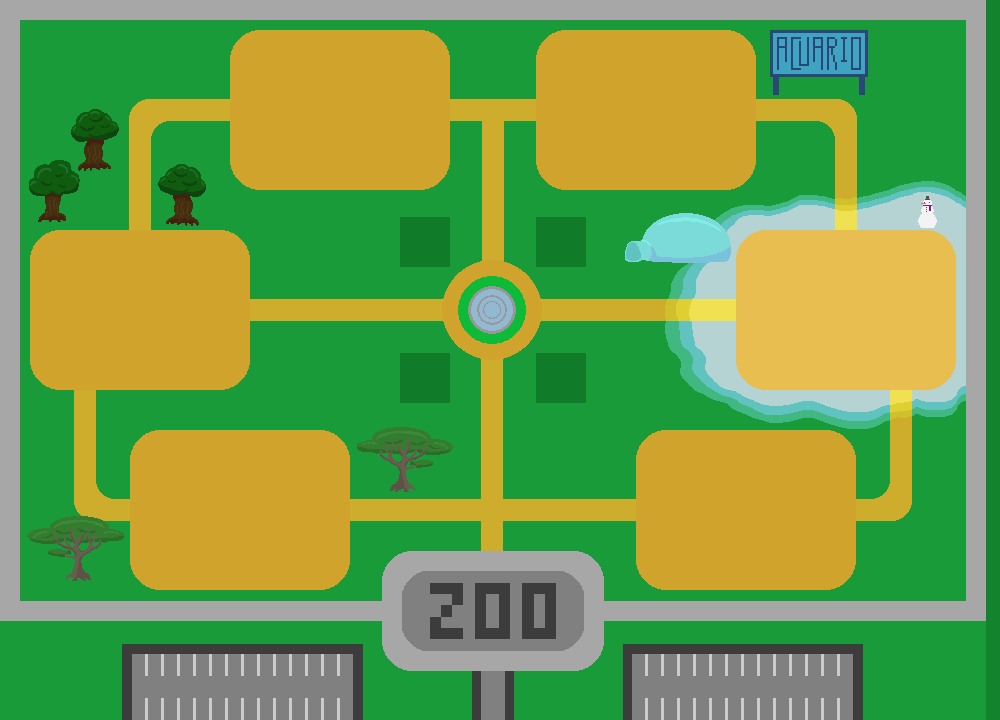
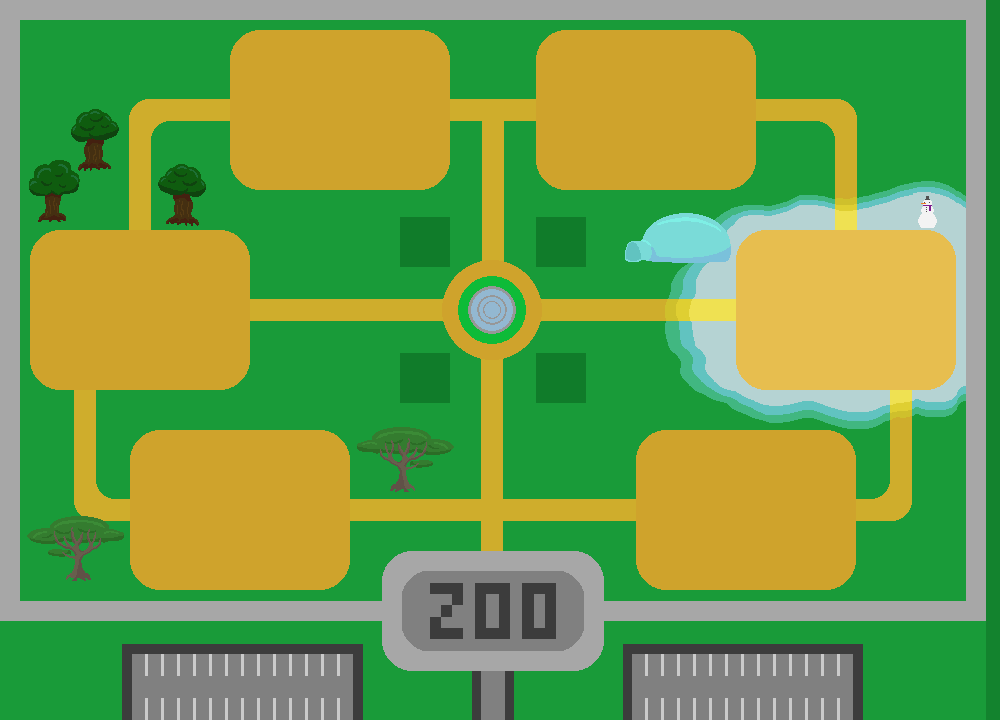
Adición de la función para comprar tiendas, a su vez la eliminación de la clase Tienda por su poca necesidad de tenerla

Changed region(s): [[0.744, 0.0306, 0.868, 0.1222]]

diff --git a/ProyectoFinal/src/main/java/Vistas/Paneles/PanelMenu.java b/ProyectoFinal/src/main/java/Vistas/Paneles/PanelMenu.java
@@ -24,22 +24,24 @@ public class PanelMenu extends JPanel {
         this.setBackground(Color.LIGHT_GRAY);
         listenerAnimal = new SelectAnimal();
         selectAnimal = new ArrayList<>();
-        cuadroDinero = new CuadroTexto[2];
+        cuadroDinero = new CuadroTexto[3];
         for(int i=0; i<6; i++)
             selectAnimal.add(new ArrayList<>());
 
         cuadroDinero[0] = new CuadroTexto(" Dinero: "+new Zoologico().getDinero()+ "$", "Arial", 1);
-        cuadroDinero[1] = new CuadroTexto("", "Arial", 1);
+        cuadroDinero[1] = new CuadroTexto(" Ganancias: 0", "Arial", 1);
+        cuadroDinero[2] = new CuadroTexto("", "Arial", 1);
         addComp(cuadroDinero[0],20,20,240,20);
-        addComp(new CuadroTexto(" v Seleccione Animal:", "Arial", 1), 20,60,240,20);
+        addComp(cuadroDinero[1],20,45,240,20);
+        addComp(new CuadroTexto(" v Seleccione Animal:", "Arial", 1), 20,90,240,20);
         addAnimal = new PopupSelect(" Seleccione un Habitat", Color.WHITE, Color.BLACK, "Arial", 0);
-        addComp(addAnimal,20,85,240,20);
-        addComp(new CuadroTexto(" v Inserte Nombre:","Arial", 1), 20,130,240,20);
+        addComp(addAnimal,20,115,240,20);
+        addComp(new CuadroTexto(" v Inserte Nombre:","Arial", 1), 20,160,240,20);
         insertText = new ZonaTexto(" Seleccione un Habitat","Arial", 0);
-        addComp(insertText,20,155,240,20);
-        addComp(cuadroDinero[1],  20,200,240,20);
+        addComp(insertText,20,185,240,20);
+        addComp(cuadroDinero[2],  20,230,240,20);
         comprarAnimal = new Boton(Color.BLACK, true, "imgAdoptar.png");
-        addComp(comprarAnimal,20,225,240,50);
+        addComp(comprarAnimal,20,255,240,50);
         comprarAnimal.addActionListener(new MenuOptions());
         addAnimal.setUse(false);
         comprarAnimal.setEnabled(false);
@@ -51,10 +53,11 @@ public class PanelMenu extends JPanel {
         this.add(comp);
     }
     public void updateDinero(int dinero) {
-        cuadroDinero[0].setText(" Dinero: "+dinero+" $ + "+PanelLinker.getPanelPrincipal().zoologico.getGanancia() + " $ in 5 sec");
+        cuadroDinero[0].setText(" Dinero: "+dinero+" $");
+        cuadroDinero[1].setText(" Ganancias: +"+PanelLinker.getPanelPrincipal().zoologico.getGanancia() + " $ /5 seg");
     }
 
-    public void changeHabitat(Habitat habitat) {
+    public void enterHabitat(Habitat habitat) {
         this.habitat = habitat;
         tipoAnimal = null;
         addAnimal.setUse(true);
@@ -70,7 +73,7 @@ public class PanelMenu extends JPanel {
         addAnimal.setUse(false);
         insertText.setText(" Seleccione un Habitat");
         insertText.setEnabled(false);
-        cuadroDinero[1].setText("");
+        cuadroDinero[2].setText("");
         comprarAnimal.setEnabled(false);
     }
     public void updatePopup() {
@@ -91,7 +94,7 @@ public class PanelMenu extends JPanel {
                     tipoAnimal = habitat.getUnlocked().get(i);
                     addAnimal.setText(" "+tipoAnimal.getNombre());
                     insertText.setText(tipoAnimal.getNombre());
-                    cuadroDinero[1].setText(" Precio: "+tipoAnimal.getPrecio()+" $");
+                    cuadroDinero[2].setText(" Precio: "+tipoAnimal.getPrecio()+" $");
                     comprarAnimal.setEnabled(true);
                 }
             }

diff --git a/ProyectoFinal/src/main/java/Vistas/Paneles/PanelZoologico.java b/ProyectoFinal/src/main/java/Vistas/Paneles/PanelZoologico.java
@@ -51,7 +51,7 @@ public class PanelZoologico extends JPanel {
 
         int[] yTPos = new int[]{217,353,353,217};
         for(int i=0; i<4; i++) {
-            bTiendas[i] = new Boton(Color.BLACK, true, "imgTienda" + i + ".png");
+            bTiendas[i] = new Boton(Color.BLACK, true, "imgTiendaLock" + i + ".png");
             bTiendas[i].addActionListener(listenerTienda);
             addComp(bTiendas[i],400+136*(i%2),yTPos[i],50,50);
         }
@@ -70,7 +70,7 @@ public class PanelZoologico extends JPanel {
         for(int j=0; j<4; j++)
             bTiendas[j].setVisible(!openPanelHabitat.getVisible());
         if(openPanelHabitat.getVisible()) {
-            PanelLinker.getPanelPrincipal().getMenu().changeHabitat(openPanelHabitat.getHabitat());
+            PanelLinker.getPanelPrincipal().getMenu().enterHabitat(openPanelHabitat.getHabitat());
             ImgBackground = ImageLoader.getInstancia().getImagenFondoZoo(openPanelHabitat.getHabitat().getTipo().getValue());
             this.add(openPanelHabitat);
         } else {
@@ -104,6 +104,14 @@ public class PanelZoologico extends JPanel {
     private class InteraccionTienda implements ActionListener {
         @Override
         public void actionPerformed(ActionEvent event) {
+            for(int i=0; i<4; i++) {
+                if(event.getSource() == bTiendas[i]) {
+                    zoologico.comprarTienda(i);
+                    PanelLinker.getPanelPrincipal().panelMenu.updateDinero(zoologico.getDinero());
+                }
+                if(zoologico.getTienda(i))
+                    bTiendas[i].changeImage("imgTienda"+i+".png");
+            }
         }
     }
 

diff --git a/ProyectoFinal/src/main/java/Modelos/Enumeration/TipoAnimal.java b/ProyectoFinal/src/main/java/Modelos/Enumeration/TipoAnimal.java
@@ -22,12 +22,12 @@ public enum TipoAnimal {
     Pantera(100, TipoHabitat.Selva, TipoComida.CarneRoja,"Pantera"),
     Serpiente(100, TipoHabitat.Selva, TipoComida.Roedor,"Serpiente"),
 
-    Coipo(100, TipoHabitat.Oceano, TipoComida.Arbustos,"Coipo"),
-    Delfin(100, TipoHabitat.Oceano, TipoComida.Pescado,"Delfín"),
-    LoboMarino(100, TipoHabitat.Oceano, TipoComida.Pescado,"Lobo marino"),
-    Orca(100, TipoHabitat.Oceano, TipoComida.CarneRoja,"Orca"),
-    Tiburon(100, TipoHabitat.Oceano, TipoComida.Pescado,"Tiburón"),
-    Tortuga(100, TipoHabitat.Oceano, TipoComida.Vegetacion,"Tortuga"),
+    Coipo(100, TipoHabitat.Acuario, TipoComida.Arbustos,"Coipo"),
+    Delfin(100, TipoHabitat.Acuario, TipoComida.Pescado,"Delfín"),
+    LoboMarino(100, TipoHabitat.Acuario, TipoComida.Pescado,"Lobo marino"),
+    Orca(100, TipoHabitat.Acuario, TipoComida.CarneRoja,"Orca"),
+    Tiburon(100, TipoHabitat.Acuario, TipoComida.Pescado,"Tiburón"),
+    Tortuga(100, TipoHabitat.Acuario, TipoComida.Vegetacion,"Tortuga"),
 
     Avestruz(100, TipoHabitat.Desierto, TipoComida.Frutos,"Avestruz"),
     Camello(100, TipoHabitat.Desierto, TipoComida.Vegetacion,"Camello"),

diff --git a/ProyectoFinal/src/main/java/Modelos/Enumeration/ListaAnimales.java b/ProyectoFinal/src/main/java/Modelos/Enumeration/ListaAnimales.java
@@ -4,7 +4,7 @@ public enum ListaAnimales {
     Bosque(new TipoAnimal[]{TipoAnimal.Carpintero,TipoAnimal.Huemul,TipoAnimal.Oso,TipoAnimal.Pudu,TipoAnimal.Puma,TipoAnimal.Zorro}),
     Sabana(new TipoAnimal[]{TipoAnimal.Cebra,TipoAnimal.Elefante,TipoAnimal.Hiena,TipoAnimal.Hipopotamo,TipoAnimal.Jirafa,TipoAnimal.Leon}),
     Selva(new TipoAnimal[]{TipoAnimal.Cocodrilo,TipoAnimal.Loro,TipoAnimal.Mono,TipoAnimal.OsoHormiguero,TipoAnimal.Pantera,TipoAnimal.Serpiente}),
-    Acuatico(new TipoAnimal[]{TipoAnimal.Coipo,TipoAnimal.Delfin,TipoAnimal.LoboMarino,TipoAnimal.Orca,TipoAnimal.Tiburon,TipoAnimal.Tortuga}),
+    Acuario(new TipoAnimal[]{TipoAnimal.Coipo,TipoAnimal.Delfin,TipoAnimal.LoboMarino,TipoAnimal.Orca,TipoAnimal.Tiburon,TipoAnimal.Tortuga}),
     Desierto(new TipoAnimal[]{TipoAnimal.Avestruz,TipoAnimal.Camello,TipoAnimal.Canguro,TipoAnimal.Coyote,TipoAnimal.Lagarto,TipoAnimal.Suricata}),
     Artico(new TipoAnimal[]{TipoAnimal.Alce,TipoAnimal.BuhoNival,TipoAnimal.Morsa,TipoAnimal.OsoPolar,TipoAnimal.Pinguino,TipoAnimal.ZorroArtico});
     private TipoAnimal[] animales;

diff --git a/ProyectoFinal/src/main/java/Modelos/Acuario/LoboMarino.java b/ProyectoFinal/src/main/java/Modelos/Acuario/LoboMarino.java
@@ -1,4 +1,4 @@
-package Modelos.Oceano;
+package Modelos.Acuario;
 
 import Modelos.Utils.Animal;
 import Modelos.Enumeration.TipoAnimal;
@@ -6,12 +6,12 @@ import Vistas.Utils.ImageLoader;
 import java.awt.*;
 import java.util.Random;
 
-public class Delfin extends Animal {
+public class LoboMarino extends Animal {
     private int moveTime;
     private int moveSpeed = 1;
 
-    public Delfin(String nombre) {
-        super(nombre, TipoAnimal.Delfin);
+    public LoboMarino(String nombre) {
+        super(nombre, TipoAnimal.LoboMarino);
         setImage(ImageLoader.getInstancia().getImagenAnimal(getNumImg()));
         setFlippedImage(ImageLoader.getInstancia().getImagenAnimalFlipped(getNumImg()));
         Random random = new Random();
@@ -20,14 +20,13 @@ public class Delfin extends Animal {
 
     @Override
     public int getNumImg() {
-        return 19;
+        return 20;
     }
 
     public void moveInPath(){
         if(moveTime>200||moveTime<0){
             moveSpeed=-moveSpeed;
             swapFlipped();
-
         }
 
         moveTime+=moveSpeed;

diff --git a/ProyectoFinal/src/main/java/Modelos/Acuario/Delfin.java b/ProyectoFinal/src/main/java/Modelos/Acuario/Delfin.java
@@ -1,4 +1,4 @@
-package Modelos.Oceano;
+package Modelos.Acuario;
 
 import Modelos.Utils.Animal;
 import Modelos.Enumeration.TipoAnimal;
@@ -6,12 +6,12 @@ import Vistas.Utils.ImageLoader;
 import java.awt.*;
 import java.util.Random;
 
-public class Tiburon extends Animal {
+public class Delfin extends Animal {
     private int moveTime;
     private int moveSpeed = 1;
 
-    public Tiburon(String nombre) {
-        super(nombre, TipoAnimal.Tiburon);
+    public Delfin(String nombre) {
+        super(nombre, TipoAnimal.Delfin);
         setImage(ImageLoader.getInstancia().getImagenAnimal(getNumImg()));
         setFlippedImage(ImageLoader.getInstancia().getImagenAnimalFlipped(getNumImg()));
         Random random = new Random();
@@ -20,13 +20,14 @@ public class Tiburon extends Animal {
 
     @Override
     public int getNumImg() {
-        return 22;
+        return 19;
     }
 
     public void moveInPath(){
         if(moveTime>200||moveTime<0){
             moveSpeed=-moveSpeed;
             swapFlipped();
+
         }
 
         moveTime+=moveSpeed;

diff --git a/ProyectoFinal/src/main/java/Modelos/Utils/Zoologico.java b/ProyectoFinal/src/main/java/Modelos/Utils/Zoologico.java
@@ -7,15 +7,25 @@ public class Zoologico {
     private int dinero;
     private int ganancia;
     private int penalizacion;
+    private boolean[] tiendas;
 
     public Zoologico() {
         listaHabitat = new Habitat[6];
+        tiendas = new boolean[4];
         dinero = 10000;
         ganancia = 0;
         penalizacion = 0;
         for(int i=0; i<6; i++) {
             listaHabitat[i] = new Habitat(TipoHabitat.values()[i], ListaAnimales.values()[i]);
         }
+        for(int i=0; i<4; i++) {
+            tiendas[i] = false;
+        }
+    }
+
+    public void comprarTienda(int index) {
+        if(transaccion(3000,30))
+            tiendas[index] = true;
     }
 
     public void comprarHabitat(int index) {
@@ -58,6 +68,7 @@ public class Zoologico {
     }
     public int getDinero() { return dinero; }
     public Habitat getHabitat(int index) { return listaHabitat[index]; }
+    public boolean getTienda(int index) { return tiendas[index]; }
 
 
 }

diff --git a/ProyectoFinal/src/main/java/Modelos/Acuario/Tiburon.java b/ProyectoFinal/src/main/java/Modelos/Acuario/Tiburon.java
@@ -1,4 +1,4 @@
-package Modelos.Oceano;
+package Modelos.Acuario;
 
 import Modelos.Utils.Animal;
 import Modelos.Enumeration.TipoAnimal;
@@ -6,12 +6,12 @@ import Vistas.Utils.ImageLoader;
 import java.awt.*;
 import java.util.Random;
 
-public class LoboMarino extends Animal {
+public class Tiburon extends Animal {
     private int moveTime;
     private int moveSpeed = 1;
 
-    public LoboMarino(String nombre) {
-        super(nombre, TipoAnimal.LoboMarino);
+    public Tiburon(String nombre) {
+        super(nombre, TipoAnimal.Tiburon);
         setImage(ImageLoader.getInstancia().getImagenAnimal(getNumImg()));
         setFlippedImage(ImageLoader.getInstancia().getImagenAnimalFlipped(getNumImg()));
         Random random = new Random();
@@ -20,7 +20,7 @@ public class LoboMarino extends Animal {
 
     @Override
     public int getNumImg() {
-        return 20;
+        return 22;
     }
 
     public void moveInPath(){

diff --git a/ProyectoFinal/src/main/java/Modelos/Utils/AnimalFactory.java b/ProyectoFinal/src/main/java/Modelos/Utils/AnimalFactory.java
@@ -3,7 +3,7 @@ package Modelos.Utils;
 import Modelos.Bosque.*;
 import Modelos.Sabana.*;
 import Modelos.Selva.*;
-import Modelos.Oceano.*;
+import Modelos.Acuario.*;
 import Modelos.Desierto.*;
 import Modelos.Artico.*;
 import Modelos.Enumeration.*;
@@ -52,7 +52,7 @@ public class AnimalFactory {
             } else {
                 return new Serpiente(nombre);
             }
-        } else if(tipo.getHabitat() == TipoHabitat.Oceano) {
+        } else if(tipo.getHabitat() == TipoHabitat.Acuario) {
             if (tipo == TipoAnimal.Coipo) {
                 return new Coipo(nombre);
             } else if (tipo == TipoAnimal.Delfin) {

diff --git a/ProyectoFinal/src/main/java/Modelos/Enumeration/TipoHabitat.java b/ProyectoFinal/src/main/java/Modelos/Enumeration/TipoHabitat.java
@@ -4,7 +4,7 @@ public enum TipoHabitat {
     Bosque(2000, 1000,0),
     Sabana(2000, 1000,1),
     Selva(2000, 1000,2),
-    Oceano(2000, 1000,3),
+    Acuario(2000, 1000,3),
     Desierto(2000, 1000,4),
     Artico(2000, 1000,5);
     private int precio;

diff --git a/ProyectoFinal/src/main/java/Vistas/Utils/ImageLoader.java b/ProyectoFinal/src/main/java/Vistas/Utils/ImageLoader.java
@@ -20,7 +20,6 @@ public class ImageLoader {
     private static BufferedImage[] imagenAnimalFlipped;
     private static BufferedImage[] fondosZoologico;
 
-
     /** Constructor privado donde se cargan las Imágenes */
     private ImageLoader() {
 

diff --git a/ProyectoFinal/src/main/java/Modelos/Acuario/Coipo.java b/ProyectoFinal/src/main/java/Modelos/Acuario/Coipo.java
@@ -1,4 +1,4 @@
-package Modelos.Oceano;
+package Modelos.Acuario;
 
 import Modelos.Utils.Animal;
 import Modelos.Enumeration.TipoAnimal;
